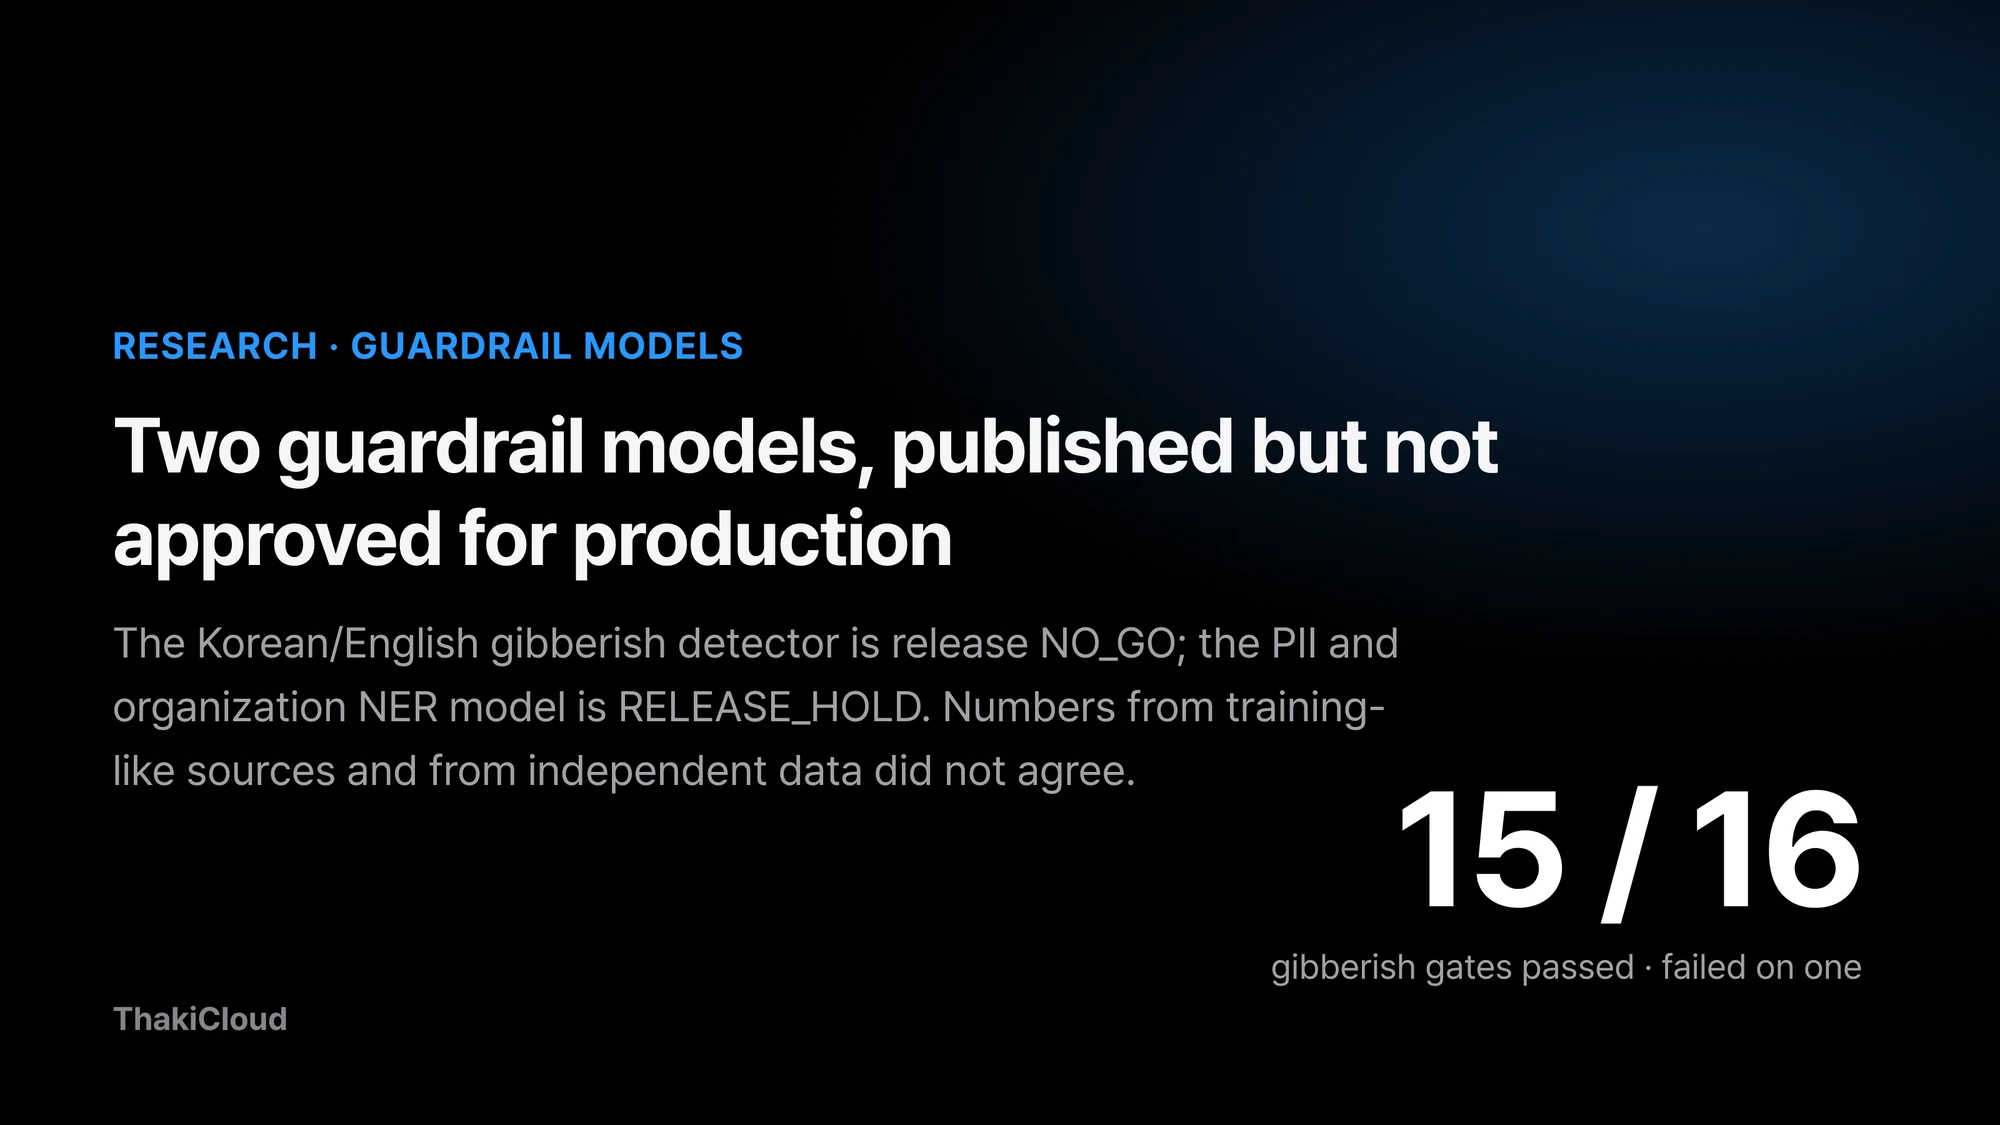
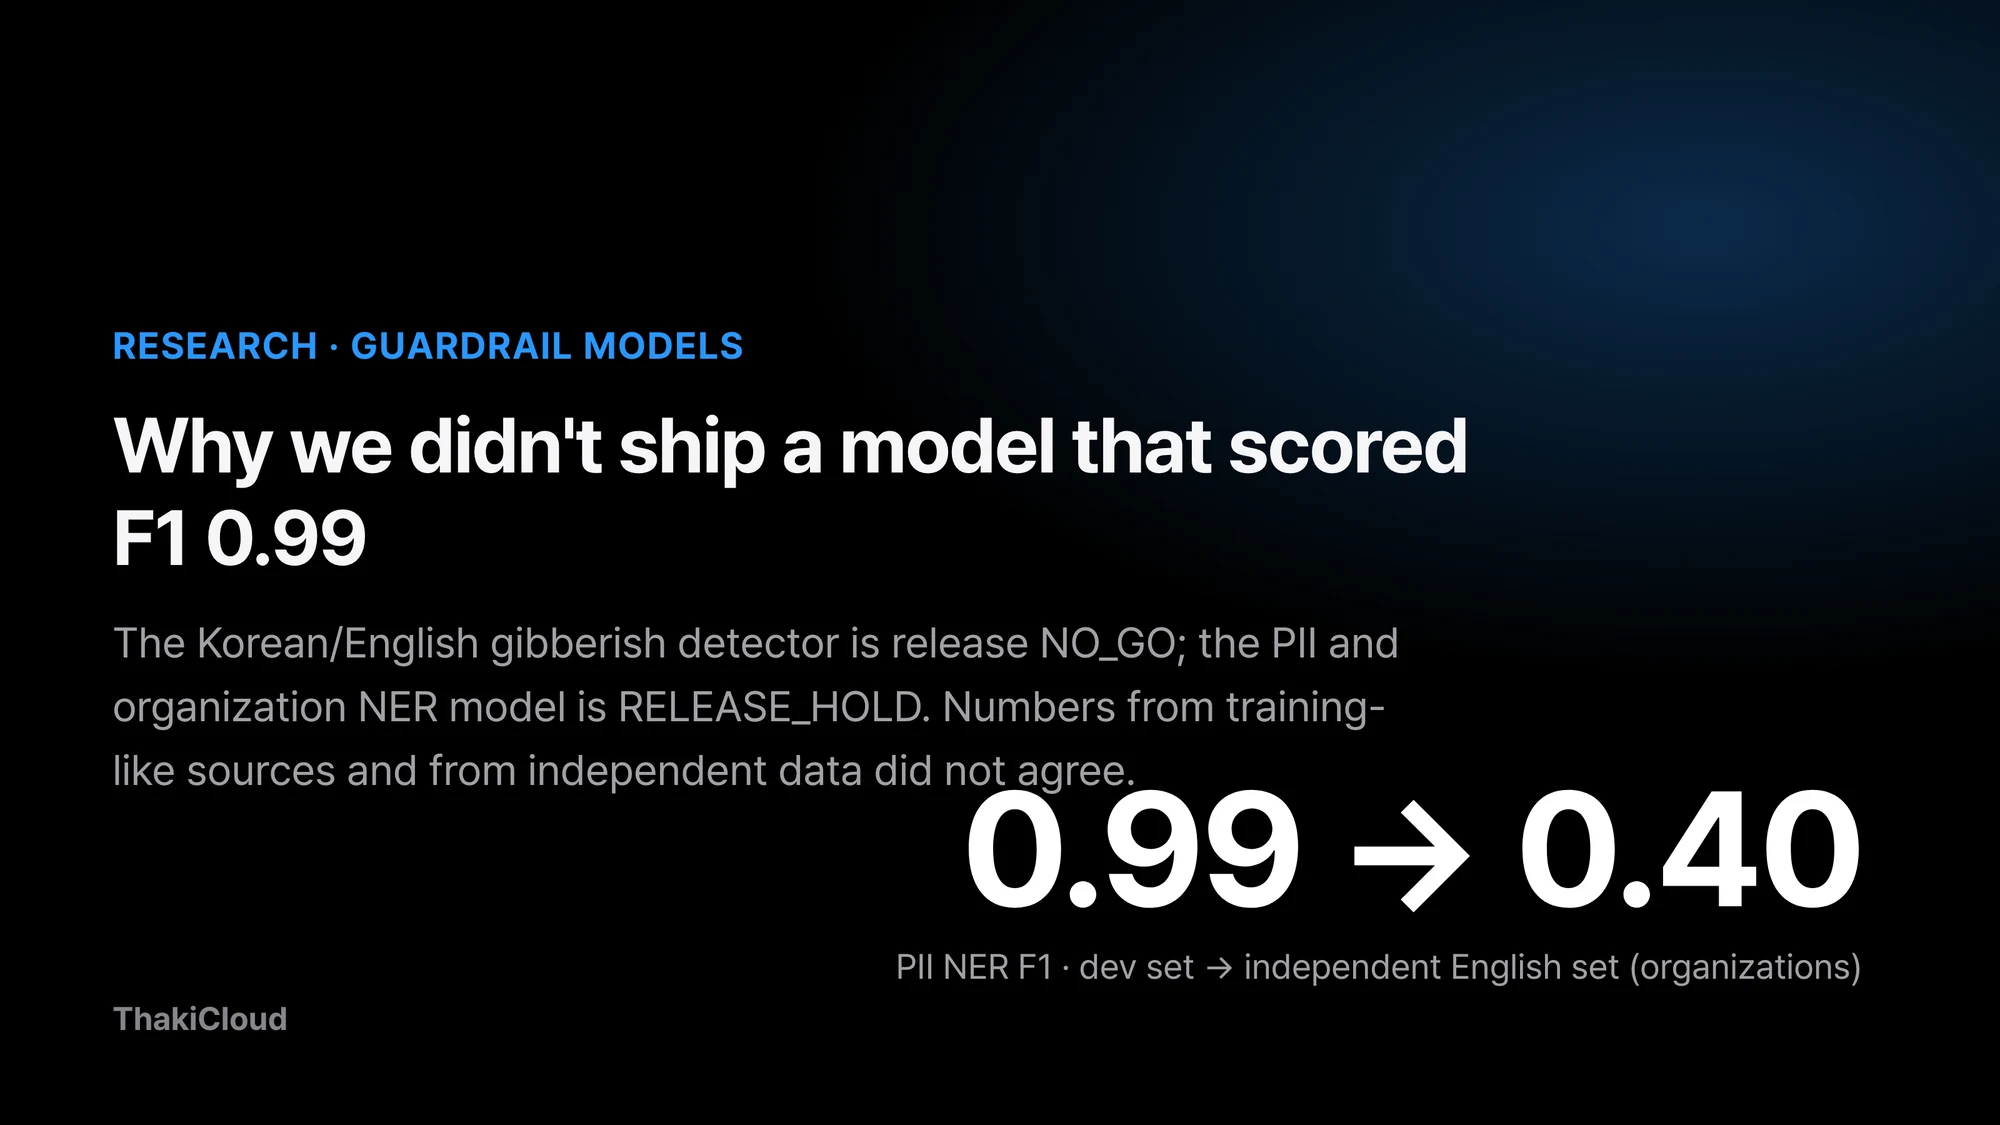
fix(blog): Rewrite LLM Guard post titles for readers
Claude-Session: https://claude.ai/code/session_013gXLVenNaQcqtjM9LitXMA

diff --git a/_posts/ko/research/2026-11-14-thaki-bancode-koen-v2-code-block-guard.md b/_posts/ko/research/2026-11-14-thaki-bancode-koen-v2-code-block-guard.md
@@ -1,6 +1,6 @@
 ---
-title: "Thaki-BanCode-KoEn-v2 · 한국어 문장을 코드로 오인하지 않는 LLM 가드레일용 코드 블록 탐지기"
-seo_title: "Thaki-BanCode-KoEn-v2: 한국어 오탐을 없앤 LLM Guard BanCode 코드 블록 탐지 모델 공개 | ThakiCloud"
+title: "한국어 문장 91%를 코드로 오인하던 가드레일, 0%로 고쳤습니다"
+seo_title: "한국어 문장 91%를 코드로 오인하던 LLM Guard BanCode, 오탐 0%로 고친 Thaki-BanCode-KoEn-v2 | ThakiCloud"
 seo_description: "LLM Guard BanCode 스캐너 자리에 들어갈 140M 한국어·영어 코드 블록 탐지기 Thaki-BanCode-KoEn-v2를 공개했습니다. 학습에 쓰지 않은 공개 문서 13,814건에서 원본 BanCode 모델이 한국어 일반 문장 91.3%, 영어 60.7%를 코드로 잘못 잡은 반면 v2는 0.00%와 0.72%였고, 코드 탐지율은 99.3%와 99.8%였습니다."
 excerpt: "학습에 쓰지 않은 공개 문서 13,814건에서 원본 BanCode 모델은 한국어 일반 문장의 91.3%를 코드로 잡았습니다. v2는 4,200건 중 0건이었고 코드 탐지율은 99.3%로 원본(98.2%)보다 낮아지지 않았습니다. 다만 llm-guard 기본 BanCode 클래스에 그대로 끼우면 안 됩니다."
 date: 2026-11-14

diff --git a/_posts/ko/research/2026-11-14-llm-guard-koen-gibberish-pii-ner-held-models.md b/_posts/ko/research/2026-11-14-llm-guard-koen-gibberish-pii-ner-held-models.md
@@ -1,6 +1,6 @@
 ---
-title: "공개는 했지만 운영 승인은 아닙니다 · 한·영 무의미 문자열 탐지기와 개인정보 NER 실험 모델 두 개"
-seo_title: "Thaki-Gibberish-KoEn-Experimental·Thaki-PII-NER-KoEn-v2-Preview 실험 공개, 출시 판정은 보류 | ThakiCloud"
+title: "개발 세트 F1 0.99인데 출시하지 않은 이유"
+seo_title: "개발 세트 F1 0.99인데 출시하지 않은 이유: Thaki-PII-NER-KoEn-v2-Preview·Thaki-Gibberish-KoEn-Experimental 보류 판정 | ThakiCloud"
 seo_description: "LLM Guard식 가드레일 스캐너 후보로 만든 한·영 무의미 문자열 탐지기와 개인정보·기관명 NER 모델을 Hugging Face에 공개했습니다. 두 모델 모두 운영용 승인을 받지 못했습니다. 학습과 같은 출처에서 잰 숫자와 독립 데이터에서 잰 숫자가 어떻게 달랐는지 정리합니다."
 excerpt: "무의미 문자열 탐지기는 16개 게이트 중 15개를 통과했지만 혼합·코드 오탐률 상한 1.33%로 떨어졌고, 개인정보 NER은 개발 세트 F1 0.99와 달리 독립 영어 세트의 기관명 F1이 0.40이었습니다. 둘 다 연구 열람용 공개이며 출시 판정은 보류 그대로입니다."
 date: 2026-11-14

diff --git a/_posts/en/research/2026-11-14-llm-guard-koen-gibberish-pii-ner-held-models.md b/_posts/en/research/2026-11-14-llm-guard-koen-gibberish-pii-ner-held-models.md
@@ -1,6 +1,6 @@
 ---
-title: "Published, Not Approved for Production: Two Experimental Korean/English Guardrail Models for Gibberish and PII NER"
-seo_title: "Thaki-Gibberish-KoEn-Experimental and Thaki-PII-NER-KoEn-v2-Preview: Experimental Release, Release Decision on Hold | ThakiCloud"
+title: "Why We Didn't Ship a Model That Scored F1 0.99"
+seo_title: "Why We Didn't Ship a Model That Scored F1 0.99: Thaki-PII-NER-KoEn-v2-Preview and Thaki-Gibberish-KoEn-Experimental on Hold | ThakiCloud"
 seo_description: "We published a Korean/English gibberish detector and a PII and organization NER model on Hugging Face as candidates for LLM Guard style guardrail scanners. Neither is approved for production. This post shows how numbers measured on training-like sources differed from numbers measured on independent data."
 excerpt: "The gibberish detector passed 15 of 16 gates but failed on a 1.33% upper bound for mixed/code false positives. The PII NER model scored F1 0.99 on its development set but only 0.40 for organizations on an independent English set. Both are research releases, and both release decisions remain on hold."
 date: 2026-11-14

diff --git a/_posts/en/research/2026-11-14-thaki-bancode-koen-v2-code-block-guard.md b/_posts/en/research/2026-11-14-thaki-bancode-koen-v2-code-block-guard.md
@@ -1,6 +1,6 @@
 ---
-title: "Thaki-BanCode-KoEn-v2: A Code-Block Detector for LLM Guardrails That Stops Flagging Korean Prose as Code"
-seo_title: "Thaki-BanCode-KoEn-v2: An LLM Guard BanCode Code-Block Detector Without the Korean False Alarms | ThakiCloud"
+title: "LLM Guard Flagged 91% of Korean Prose as Code. v2 Gets It to 0%"
+seo_title: "LLM Guard BanCode Flagged 91% of Korean Prose as Code: Thaki-BanCode-KoEn-v2 Gets It to 0% | ThakiCloud"
 seo_description: "We released Thaki-BanCode-KoEn-v2, a 140M Korean/English code-block detector built for the LLM Guard BanCode scanner slot. On 13,814 public items never used in training, the original BanCode model flagged 91.3% of normal Korean text and 60.7% of normal English text as code, while v2 flagged 0.00% and 0.72%, with detection rates of 99.3% and 99.8%."
 excerpt: "On 13,814 public items never used in training, the original BanCode model flagged 91.3% of normal Korean text as code. v2 flagged 0 of 4,200, and its Korean detection rate of 99.3% was no lower than the original's 98.2%. It must not be dropped into the stock llm-guard BanCode class, though."
 date: 2026-11-14
